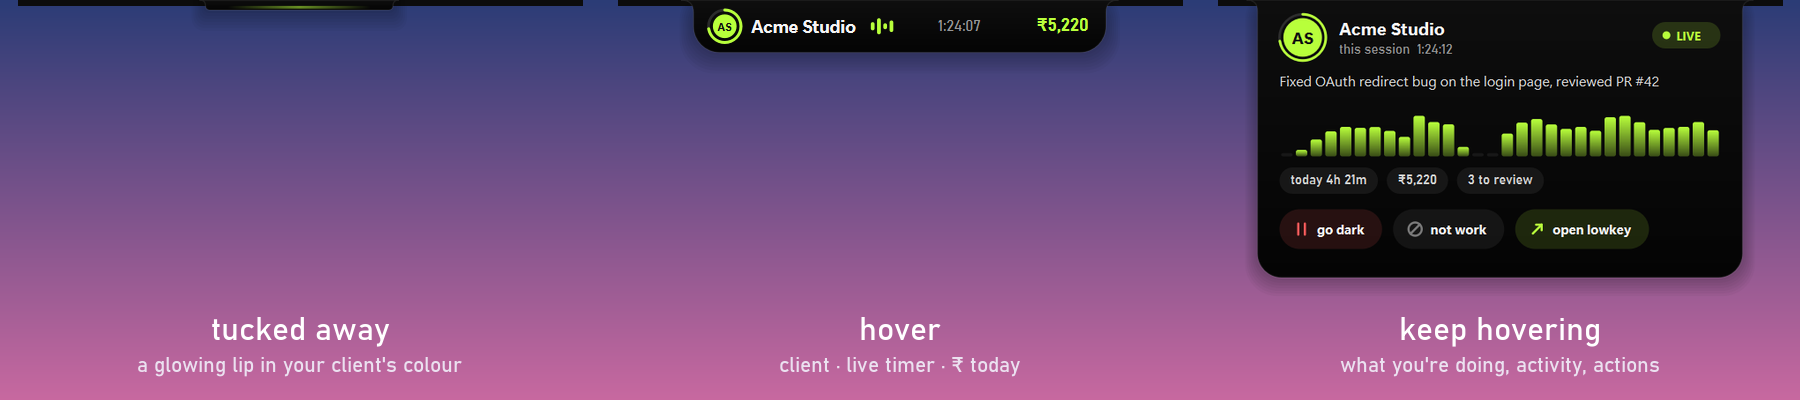
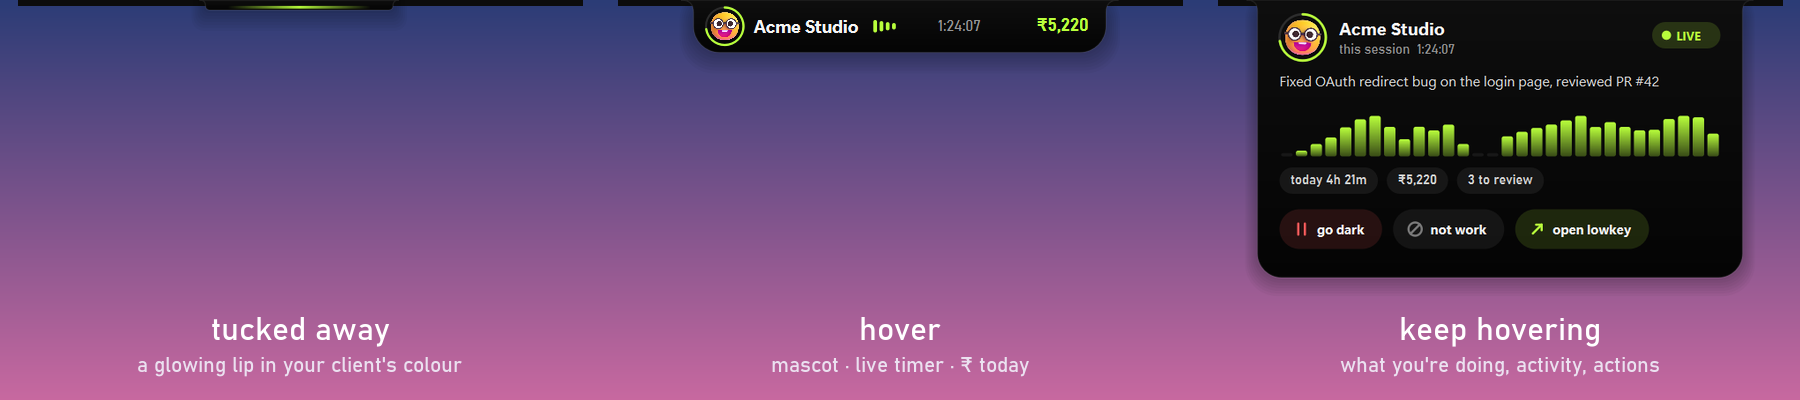
Add a reactive mascot to the island (Fluent Emoji 3D, MIT)

diff --git a/lowkey/mascot.py b/lowkey/mascot.py
@@ -1,0 +1,156 @@
+"""The island's mascot: a Fluent Emoji 3D face that reacts to what you're doing.
+
+Art: Microsoft Fluent Emoji (MIT) — https://github.com/microsoft/fluentui-emoji (see assets/mascot/LICENSE).
+Behaviour is lowkey's: it picks a mood from your live state, breathes, tilts towards your cursor,
+wobbles when its mood changes, falls asleep when you're away and has something to say when you click it.
+"""
+import math
+import time
+from pathlib import Path
+
+from PySide6.QtCore import QPointF, QRectF, Qt
+from PySide6.QtGui import QColor, QFont, QPainterPath, QPen, QPixmap
+
+ART = Path(__file__).parent / "assets" / "mascot"
+GOLD = QColor("#FFD23F")
+
+
+def fmt(s):
+    m = int(s // 60)
+    return f"{m}m" if m < 60 else f"{m // 60}h {m % 60:02d}m"
+
+
+class Mascot:
+    def __init__(self, live, goal_s, currency="₹"):
+        self.live, self.goal, self.cur = live, goal_s, currency
+        self.art = {}
+        self.mood, self.changed = "curious", 0.0
+        self.event, self.event_until = None, 0.0
+        self.quip, self.quip_until, self.quips_said = "", 0.0, 0
+        self.partied_on = None
+
+    def pix(self, mood):
+        if mood not in self.art:
+            self.art[mood] = QPixmap(str(ART / f"{mood}.png"))
+        return self.art[mood]
+
+    # ---------- moods ----------
+    def react(self, mood, secs=3.0):
+        """A short-lived mood for an event: salute on client switch, money on milestones, party on the goal."""
+        self.event, self.event_until = mood, time.time() + secs
+
+    def session_s(self, now):
+        start = self.live.get("session_start")
+        return now - start if start else 0
+
+    def pick(self, now):
+        L = self.live
+        if L.get("paused"):
+            return "hiding"
+        if L.get("idle", 0) > 300:
+            return "asleep"
+        if self.event and now < self.event_until:
+            return self.event
+        if not L.get("client"):
+            return "curious"
+        if L["client"] == "Personal":
+            return "chilling"
+        if self.session_s(now) > 90 * 60:
+            return "locked_in"
+        return "working"
+
+    def update(self, now):
+        today = time.strftime("%Y-%m-%d")
+        if self.live.get("today_s", 0) >= self.goal and self.partied_on != today:
+            self.partied_on = today
+            self.react("party", 5)
+        mood = self.pick(now)
+        if mood != self.mood:
+            self.mood, self.changed = mood, now
+        return self.quip if now < self.quip_until else None
+
+    # ---------- talking ----------
+    def say(self):
+        """Something useful about your day, chosen for the current mood. Clicking again cycles through lines."""
+        L, now = self.live, time.time()
+        client, s = L.get("client") or "work", self.session_s(now)
+        pct = min(999, round(100 * L.get("today_s", 0) / self.goal)) if self.goal else 0
+        lines = {
+            "hiding": ["i saw nothing. you're off the clock 🙈", "nothing is being recorded right now"],
+            "asleep": ["zzz… wake me when you're back", "paused while you're away. no fake hours"],
+            "chilling": [f"side quest mode, {fmt(s)} in 😎", "this one isn't going on any invoice"],
+            "locked_in": [f"{fmt(s)} straight on {client}. water break?", "locked in. i'll keep the receipts"],
+            "curious": ["watching (respectfully). first labels in a minute", "add hints in clients.json so i know who's who"],
+        }.get(self.mood, [])
+        lines += [f"{self.cur}{L.get('money', 0):,.0f} secured today",
+                  f"{pct}% of today's {self.goal // 3600}h goal",
+                  f"{L.get('pending', 0)} sessions waiting for your vibe check"]
+        if self.mood in ("working", "salute", "money", "party"):
+            lines.insert(0, f"{fmt(s)} on {client} this session")
+        self.quip = lines[self.quips_said % len(lines)]
+        self.quips_said += 1
+        self.quip_until = now + 4.5
+        self.changed = now  # little wobble when it talks
+        return self.quip
+
+    # ---------- drawing ----------
+    def draw(self, p, c, rad, now, cursor_x=None, ring_color=None):
+        mood, t = self.mood, now - self.changed
+        # goal ring behind the face
+        ring = QRectF(c.x() - rad, c.y() - rad, 2 * rad, 2 * rad)
+        p.setPen(QPen(QColor(255, 255, 255, 34), max(1.6, rad * 0.1)))
+        p.setBrush(Qt.NoBrush)
+        p.drawEllipse(ring)
+        prog = min(1.0, self.live.get("today_s", 0) / self.goal) if self.goal else 0
+        if prog > 0 and ring_color is not None:
+            p.setPen(QPen(ring_color, max(1.8, rad * 0.11), Qt.SolidLine, Qt.RoundCap))
+            p.drawArc(ring, 90 * 16, -int(360 * 16 * prog))
+
+        sleepy = mood == "asleep"
+        breathe = 1 + (0.045 * math.sin(now * 1.3) if sleepy else 0.025 * math.sin(now * 2.4))
+        wobble = 1 + 0.2 * math.exp(-6 * t) * math.sin(20 * t)        # squash-and-settle when the mood changes
+        hop = -rad * 0.35 * abs(math.sin(now * 7)) if mood in ("party", "money") and t < 3 else 0
+        tilt = 0.0
+        if cursor_x is not None and mood not in ("asleep", "hiding"):
+            tilt = max(-1.0, min(1.0, (cursor_x - c.x()) / 260)) * 12  # looks towards your cursor
+        if mood == "salute":
+            tilt += 6 * math.sin(now * 9) * math.exp(-2 * t)
+
+        face = rad * 0.88
+        p.save()
+        p.translate(c.x(), c.y() + hop)
+        p.rotate(tilt)
+        p.scale(breathe * wobble, breathe / max(0.85, wobble ** 0.5))
+        p.drawPixmap(QRectF(-face, -face, 2 * face, 2 * face), self.pix(mood), QRectF(0, 0, 256, 256))
+        p.restore()
+
+        if sleepy:
+            self.draw_zzz(p, c, rad, now)
+        elif mood in ("money", "party") and t < 4:
+            self.draw_sparkles(p, c, rad, now)
+
+    def draw_zzz(self, p, c, rad, now):
+        for i in range(3):
+            phase = (now * 0.45 + i / 3) % 1
+            f = QFont()
+            f.setFamilies(["Bahnschrift", "SF Pro Rounded", "Helvetica Neue", "sans-serif"])
+            f.setPixelSize(max(7, round(rad * (0.35 + 0.35 * phase))))
+            f.setWeight(QFont.Black)
+            p.setFont(f)
+            p.setPen(QColor(220, 220, 255, int(255 * (1 - phase))))
+            p.drawText(QPointF(c.x() + rad * (0.55 + 0.5 * phase), c.y() - rad * (0.3 + 1.0 * phase)), "z")
+
+    def draw_sparkles(self, p, c, rad, now):
+        p.setPen(Qt.NoPen)
+        for i in range(5):
+            a = now * 2.4 + i * 2 * math.pi / 5
+            d = rad * (1.15 + 0.15 * math.sin(now * 6 + i))
+            s = rad * (0.13 + 0.06 * math.sin(now * 9 + i))
+            x, y = c.x() + d * math.cos(a), c.y() + d * math.sin(a)
+            star = QPainterPath(QPointF(x, y - s))
+            for k in range(1, 8):
+                r = s if k % 2 == 0 else s * 0.35
+                star.lineTo(x + r * math.sin(k * math.pi / 4), y - r * math.cos(k * math.pi / 4))
+            star.closeSubpath()
+            p.setBrush(GOLD)
+            p.drawPath(star)

diff --git a/lowkey/island.py b/lowkey/island.py
@@ -10,6 +10,8 @@ from PySide6.QtCore import Qt, QTimer, QRectF, QPointF
 from PySide6.QtGui import QBrush, QColor, QCursor, QFont, QFontMetricsF, QGuiApplication, QLinearGradient, QPainter, QPainterPath, QPen, QTransform
 from PySide6.QtWidgets import QApplication, QWidget
 
+from .mascot import Mascot
+
 TXT, DIM, FAINT = QColor(245, 245, 245), QColor(150, 150, 150), QColor(255, 255, 255, 16)
 RED, GREY = QColor("#FF5A5A"), QColor("#7a7a7a")
 SIZES = {"lip": (150, 8), "pill": (330, 42), "toast": (360, 48), "open": (440, 252)}
@@ -71,6 +73,7 @@ class Island(QWidget):
         self.toast_msg, self.toast_until, self.toast_color, self.toast_len = "", 0.0, GREY, 2.8
         self.seen_client, self.milestone = None, None
         self.task, self.task_t0 = "", 0.0
+        self.mascot, self.quip = Mascot(live, self.goal, currency), None
         self.buttons, self.hot, self.pressed = {}, None, None
         self.edge, self.over, self.rest, self.raised_at = "top", False, "lip", 0.0
         self.last = time.time()
@@ -99,6 +102,7 @@ class Island(QWidget):
         if client and client != self.seen_client:
             if self.seen_client is not None:
                 self.toast(f"switched to {client}", QColor(L.get("color", "#7a7a7a")))
+                self.mascot.react("salute")
             self.seen_client = client
         step = int(L.get("money", 0) // 1000)
         if self.milestone is None:
@@ -106,6 +110,7 @@ class Island(QWidget):
         elif step > self.milestone:
             self.milestone = step
             self.toast(f"{self.cur}{step * 1000:,} secured today", QColor("#B8FF3B"), 3.5)
+            self.mascot.react("money", 4)
         task = L.get("task", "")
         if task != self.task:
             self.task, self.task_t0 = task, now
@@ -133,6 +138,7 @@ class Island(QWidget):
         self.edge = st.get("edge", "top") if st.get("edge") in ("top", "bottom", "left", "right") else "top"
         self.over, self.rest = st.get("taskbar") == "over", st.get("rest", "lip")
         self.watch_events(now)
+        self.quip = self.mascot.update(now)
         self.mode = self.pick_mode(now)
         tw, th = SIZES[self.mode]
         if self.mode == "lip" and self.edge in ("left", "right"):
@@ -256,29 +262,10 @@ class Island(QWidget):
         p.drawLine(p1, p2)
 
     def avatar(self, p, c, rad, now):
-        L, col = self.live, self.color()
-        p.setPen(Qt.NoPen)
-        p.setBrush(col)
-        p.drawEllipse(c, rad - 3.5, rad - 3.5)
-        if L.get("paused"):
-            p.setBrush(QColor(17, 17, 17))
-            for dx in (-0.22, 0.12):
-                p.drawRoundedRect(QRectF(c.x() + dx * rad, c.y() - rad * 0.32, rad * 0.16, rad * 0.64), 1.5, 1.5)
-        else:
-            name = L.get("client") or "lowkey"
-            initials = "".join(w[0] for w in name.replace("&", " ").split()[:2]).upper()
-            p.setPen(QColor(17, 17, 17))
-            p.setFont(font(rad * 0.72, QFont.Black))
-            p.drawText(QRectF(c.x() - rad, c.y() - rad, 2 * rad, 2 * rad), Qt.AlignCenter, initials)
-        # daily goal ring
-        ring = QRectF(c.x() - rad, c.y() - rad, 2 * rad, 2 * rad)
-        p.setPen(QPen(QColor(255, 255, 255, 34), 2.2))
-        p.setBrush(Qt.NoBrush)
-        p.drawEllipse(ring)
-        prog = min(1.0, L.get("today_s", 0) / self.goal)
-        if prog > 0:
-            p.setPen(QPen(col, 2.4, Qt.SolidLine, Qt.RoundCap))
-            p.drawArc(ring, 90 * 16, -int(360 * 16 * prog))
+        """The mascot, inside the daily-goal ring. Click it and it tells you something about your day."""
+        self.buttons["mascot"] = QRectF(c.x() - rad, c.y() - rad, 2 * rad, 2 * rad)
+        cursor = self.mapFromGlobal(QCursor.pos()).x() if self.mode != "lip" else None
+        self.mascot.draw(p, c, rad, now, cursor, self.color())
 
     def status(self):
         L = self.live
@@ -297,14 +284,14 @@ class Island(QWidget):
     def draw_pill(self, p, b, now):
         L, col = self.live, self.color()
         cy = b.top() + 21
-        self.avatar(p, QPointF(b.left() + 25, cy), 13, now)
+        self.avatar(p, QPointF(b.left() + 25, cy), 15, now)
         title, _ = self.status()
         p.setPen(TXT)
         p.setFont(font(13.5, QFont.DemiBold))
         name = QFontMetricsF(p.font()).elidedText(title, Qt.ElideRight, 140)
-        p.drawText(QRectF(b.left() + 46, b.top(), 150, 42), Qt.AlignVCenter | Qt.AlignLeft, name)
+        p.drawText(QRectF(b.left() + 48, b.top(), 150, 42), Qt.AlignVCenter | Qt.AlignLeft, name)
         if L.get("client") and not L.get("paused") and L.get("idle", 0) < 300:  # tiny "now playing" bars
-            ex = b.left() + 46 + QFontMetricsF(p.font()).horizontalAdvance(name) + 12
+            ex = b.left() + 48 + QFontMetricsF(p.font()).horizontalAdvance(name) + 12
             p.setPen(Qt.NoPen)
             p.setBrush(col)
             for i in range(4):
@@ -377,8 +364,13 @@ class Island(QWidget):
 
         # what the model thinks you're doing, typed in
         y = y0 + self.row(p, 1)
-        shown = sub[: int((now - self.task_t0) * 80)] if sub == self.task else sub
-        p.setPen(QColor(220, 220, 220))
+        if self.quip:  # the mascot is talking
+            said = now - (self.mascot.quip_until - 4.5)
+            shown, color = "💬 " + self.quip[: int(said * 60)], QColor(255, 236, 160)
+        else:
+            shown = sub[: int((now - self.task_t0) * 80)] if sub == self.task else sub
+            color = QColor(220, 220, 220)
+        p.setPen(color)
         p.setFont(font(13))
         p.drawText(QRectF(x, y + 64, b.width() - 40, 38), Qt.TextWordWrap | Qt.AlignLeft | Qt.AlignTop, shown)
 
@@ -484,6 +476,9 @@ class Island(QWidget):
             elif key == "personal":
                 self.actions["personal"]()
                 self.toast("marked as a side quest", GREY)
+            elif key == "mascot":
+                self.mascot.say()
+                self.click_open = True
             elif key == "open":
                 webbrowser.open("http://127.0.0.1:7777")
 

diff --git a/README.md b/README.md
@@ -79,7 +79,7 @@ A notch tucked into the edge of your screen, glowing in your current client's co
 
 <p align="center"><img src="docs/images/island-states.png" alt="The island tucked away, as a pill on hover, and fully open" width="100%"></p>
 
-- **Hover** and it springs out into a pill: client avatar with a daily-goal ring, a live "now playing" equaliser, the session timer and money earned today.
+- **Hover** and it springs out into a pill: the mascot inside a daily-goal ring, a live "now playing" equaliser, the session timer and money earned today.
 - **Keep hovering, or click,** and it opens:
   - what the model thinks you're doing, typed in live
   - a 30-minute activity equaliser
@@ -88,6 +88,15 @@ A notch tucked into the edge of your screen, glowing in your current client's co
 - **Double-click** to pin it open. It never takes keyboard focus, so it can't interrupt your typing.
 
 <p align="center"><img src="docs/images/island-moments.png" alt="Pop-out when switching clients, and the gone-dark state" width="80%"></p>
+
+#### Meet the mascot
+
+It reads the room. Its mood follows what you're actually doing:
+- it breathes, and tilts its head towards your cursor
+- it wobbles when its mood changes, and falls asleep (with floating z's) when you walk away
+- **click it** and it tells you something useful about your day: time on the current client, money secured, progress to your daily goal, how many sessions are waiting for review
+
+<p align="center"><img src="docs/images/mascot-moods.png" alt="The mascot's nine moods" width="100%"></p>
 
 ### 🧾 The dashboard
 
@@ -198,6 +207,7 @@ lowkey/
 ├── labeler.py       slots → Gemma → sessions → invoice lines
 ├── server.py        local dashboard + JSON API
 ├── island.py        the notch (PySide6, hand-painted)
+├── mascot.py        the island's mascot: moods, motion, one-liners
 └── web/index.html   the dashboard (no build step, no CDN)
 demo/                a synthetic week for --demo
 docs/                guides and images
@@ -205,6 +215,11 @@ tests/               core logic checks
 ```
 
 See [CONTRIBUTING.md](CONTRIBUTING.md).
+
+## Credits
+
+- Mascot art: [Microsoft Fluent Emoji](https://github.com/microsoft/fluentui-emoji) 3D set, MIT licensed. The licence is in [`lowkey/assets/mascot/LICENSE`](lowkey/assets/mascot/LICENSE). The moods, motion and behaviour are lowkey's.
+- Local inference: [Ollama](https://ollama.com) running Google's open-weight [Gemma 4](https://ai.google.dev/gemma).
 
 ## License
 

diff --git a/docs/how-it-works.md b/docs/how-it-works.md
@@ -66,4 +66,5 @@ PySide6 with hand-painted `QPainter`. tkinter was tried first, but it can't anti
 - **Motion:** a small spring simulation (`Spring`, stiffness 260, damping 24) drives width, height and per-state opacity. The slight overshoot is what makes it feel like the real Dynamic Island. Rows in the open card fade and slide in with a stagger.
 - **Shape:** the notch, including its concave "ears" where it meets the screen edge, is built as if it hung from the top edge, then mirrored or rotated onto the chosen edge with a `QTransform`.
 - **Placement:** re-read every frame. By default it hangs from the *work area* (`availableGeometry()`), so a taskbar or the macOS menu bar on the same edge pushes it inward. With `taskbar: over` it uses the full screen instead, and on Windows calls `SetWindowPos(HWND_TOPMOST)` every 0.4 s: the taskbar is also topmost, and whichever window was raised last wins.
+- **Mascot (`mascot.py`):** a Fluent Emoji 3D face (Microsoft, MIT) picked by priority: gone dark → 🙈, idle → 😴, a recent event (🫡 client switch, 🤑 ₹1,000 milestone, 🥳 daily goal) → no client yet 🧐 → personal 😎 → 90+ minutes on one session 😤 → otherwise 🤓. It breathes, tilts up to 12° towards the cursor, squash-wobbles on every mood change, and clicking it cycles through one-liners built from your live stats.
 - **States:** `lip → pill` after 0.12 s of hover, `→ open` after 0.6 s or a click, back to rest 0.35 s after the cursor leaves. Toasts fire on client switches and every ₹1,000 milestone.
